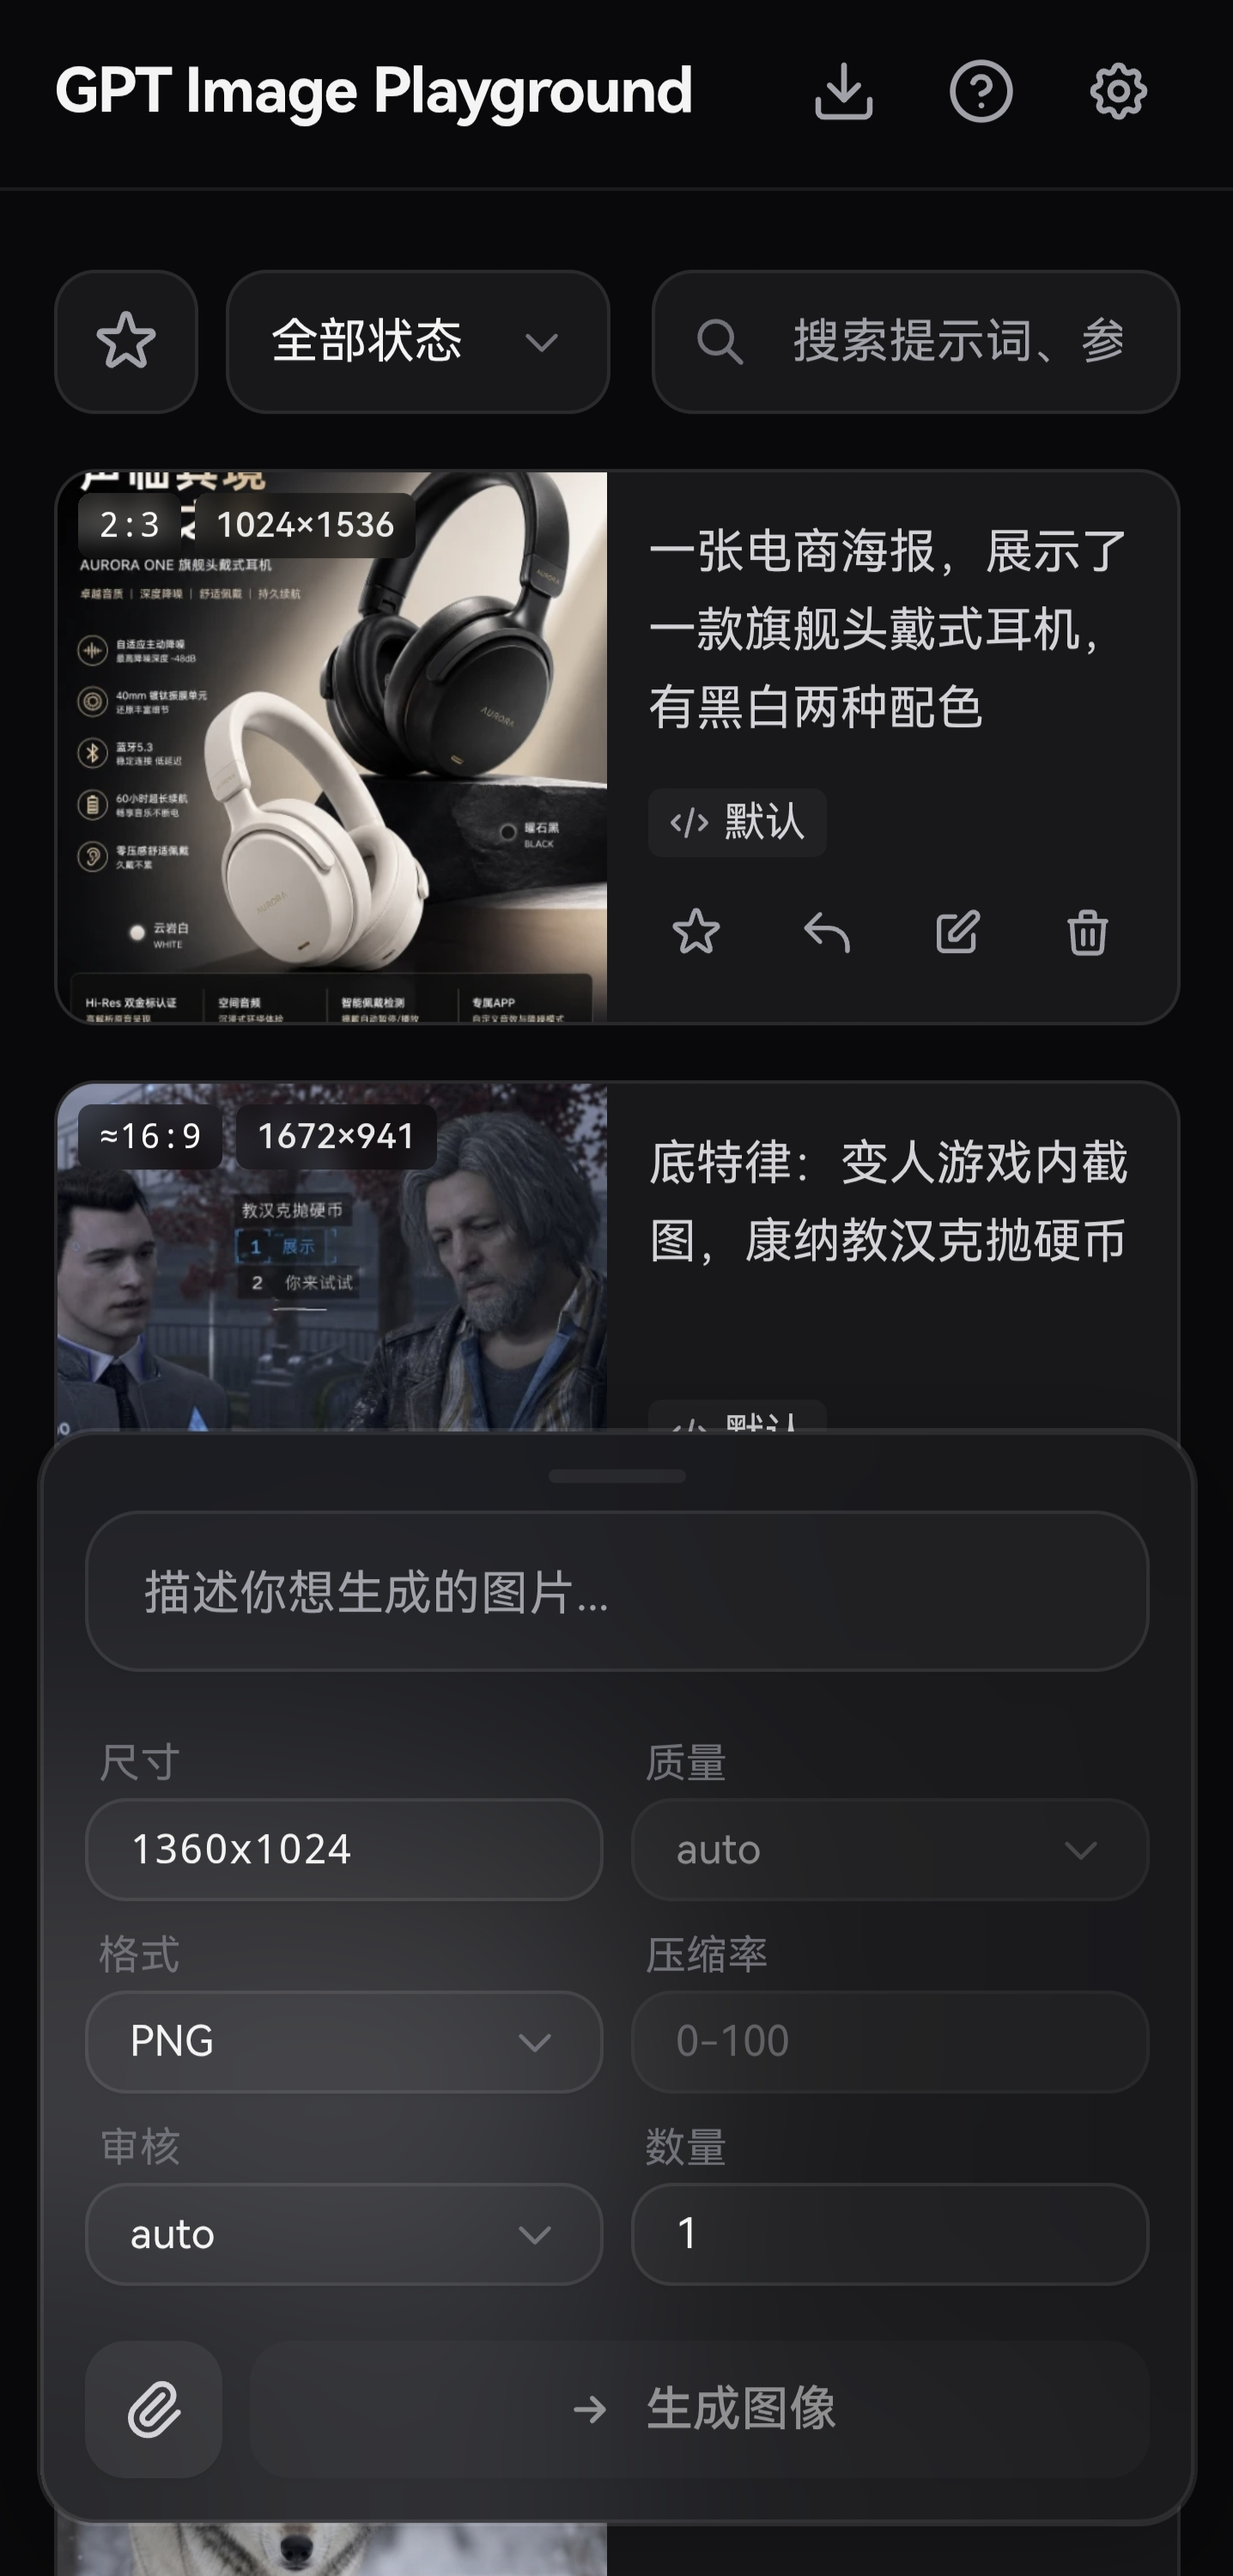
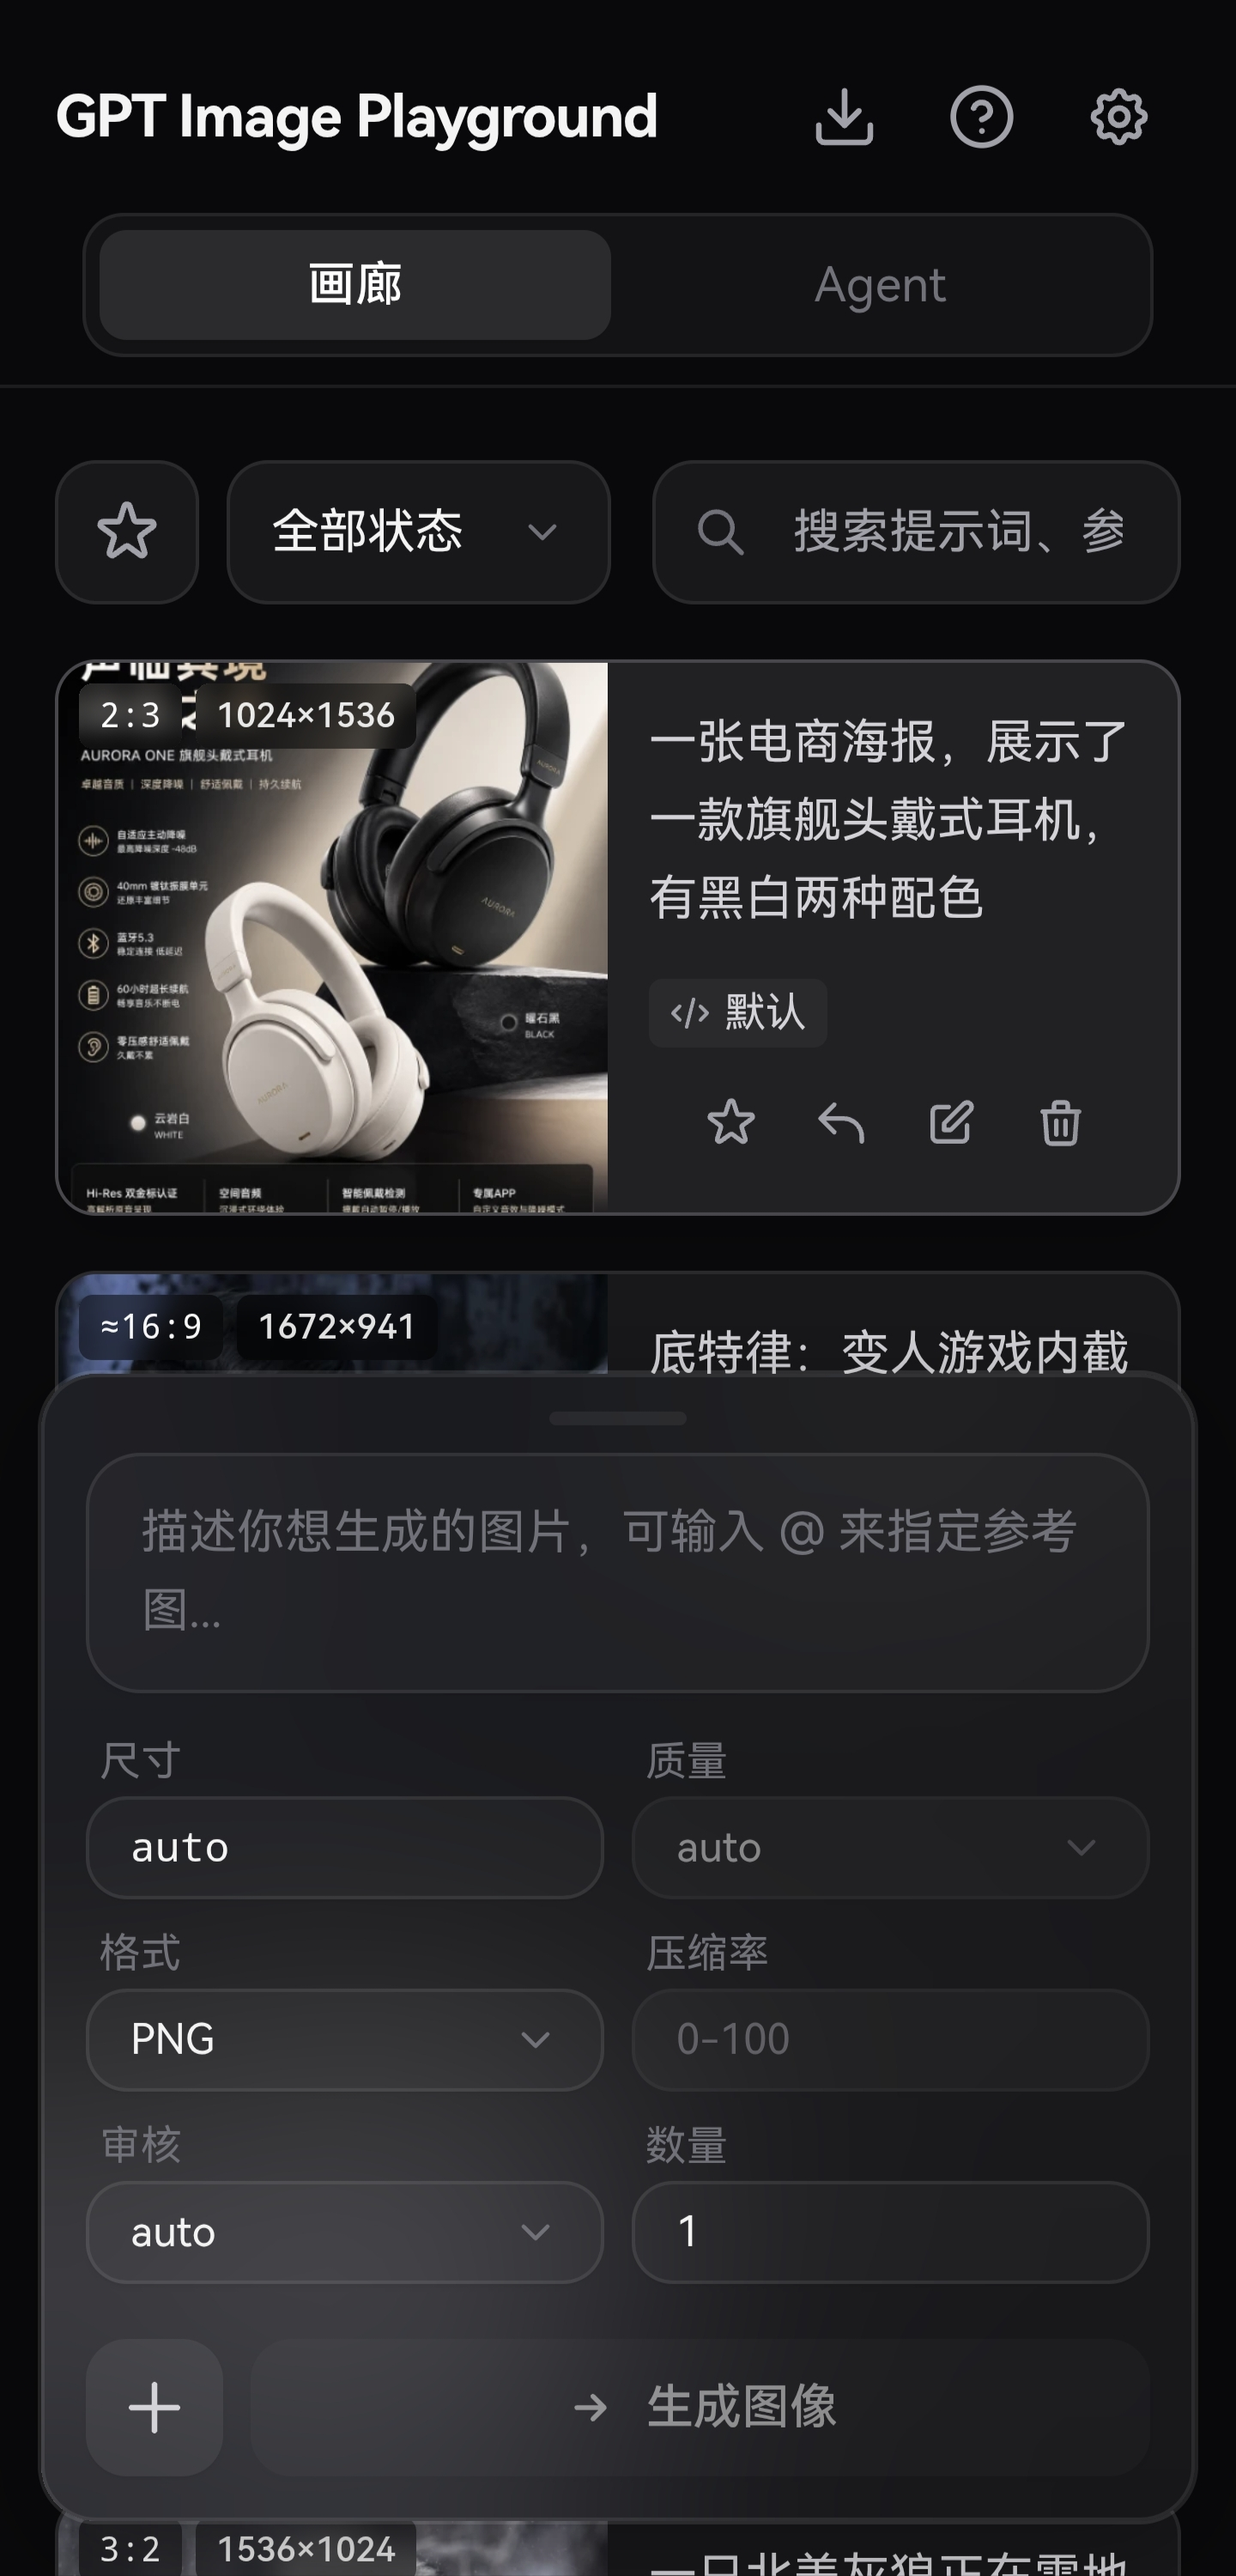
docs: 替换并更新 README 中的预览截图

diff --git a/README.md b/README.md
@@ -35,29 +35,28 @@
 
 <div align="center">
   <b>桌面端主界面</b><br>
-  <img src="docs/images/example_pc_1.png" alt="桌面端主界面" />
+  <img src="docs/images/example_pc_1.jpg" alt="桌面端主界面" />
 </div>
 
 <br>
 
 <div align="center">
   <b>任务详情与实际参数</b><br>
-  <img src="docs/images/example_pc_2.png" alt="任务详情与实际参数" />
+  <img src="docs/images/example_pc_2.jpg" alt="任务详情与实际参数" />
 </div>
 
 <br>
 
 <div align="center">
   <b>桌面端批量选择</b><br>
-  <img src="docs/images/example_pc_3.png" alt="桌面端批量选择" />
+  <img src="docs/images/example_pc_3.jpg" alt="桌面端批量选择" />
 </div>
 
 <br>
 
 <div align="center">
   <b>桌面端 Agent 模式</b><br>
-  <!-- TODO: 替换为实际截图 -->
-  <img src="docs/images/example_agent_pc.png" alt="桌面端 Agent 模式" />
+  <img src="docs/images/example_pc_4.jpg" alt="桌面端 Agent 模式" />
 </div>
 
 <br>
